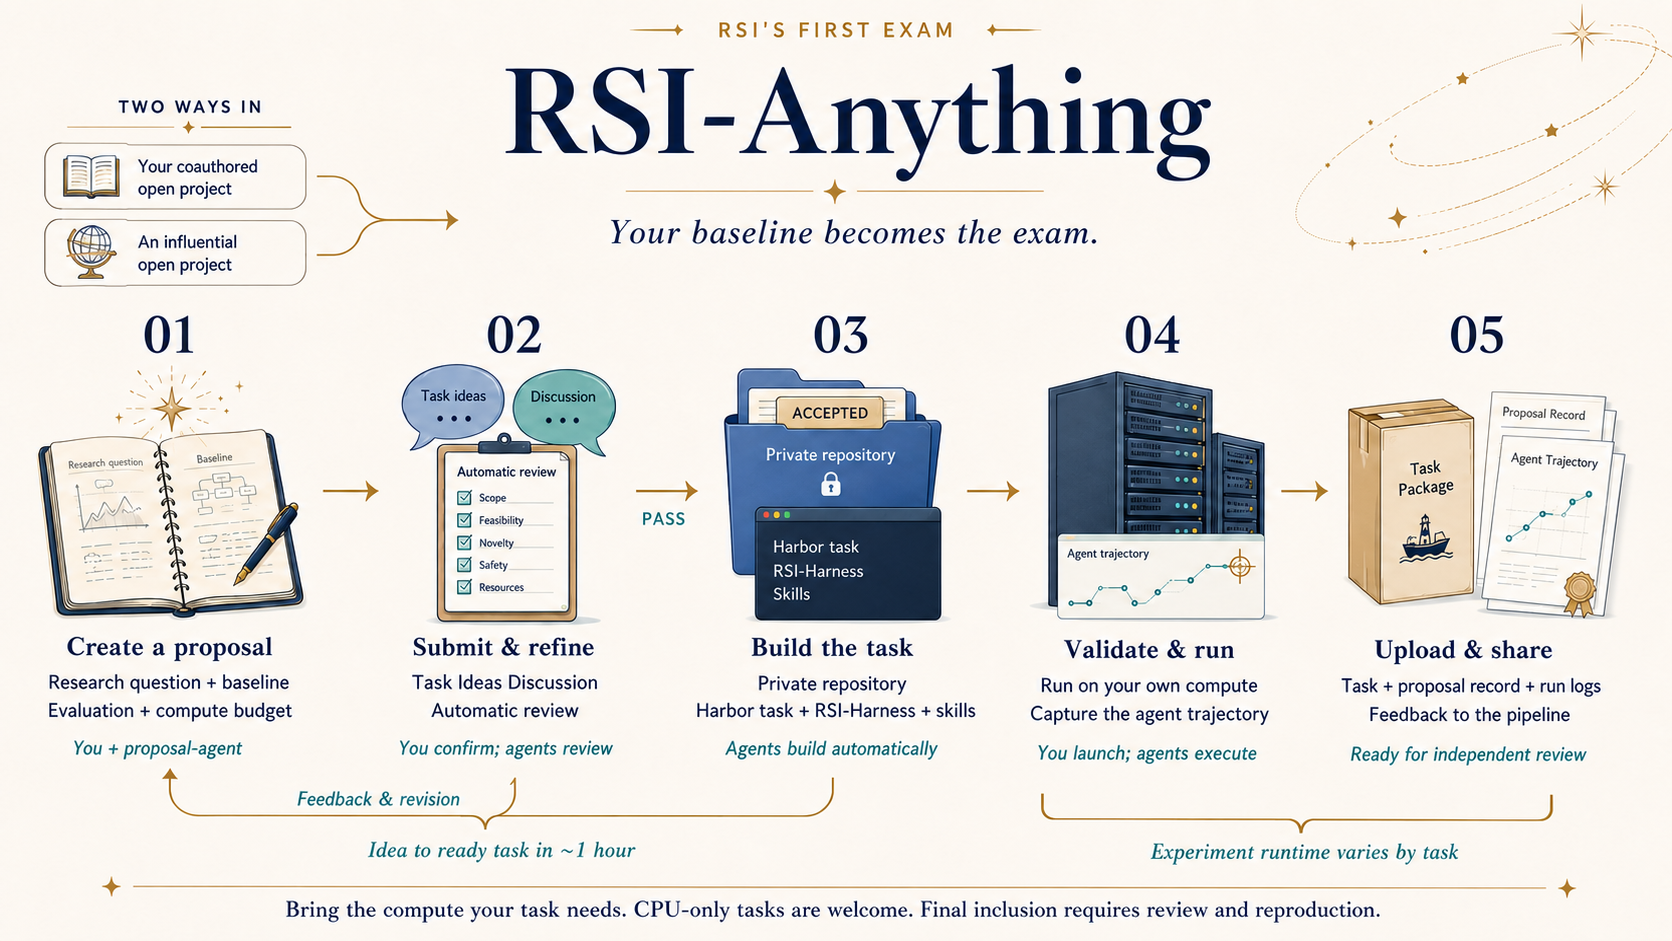
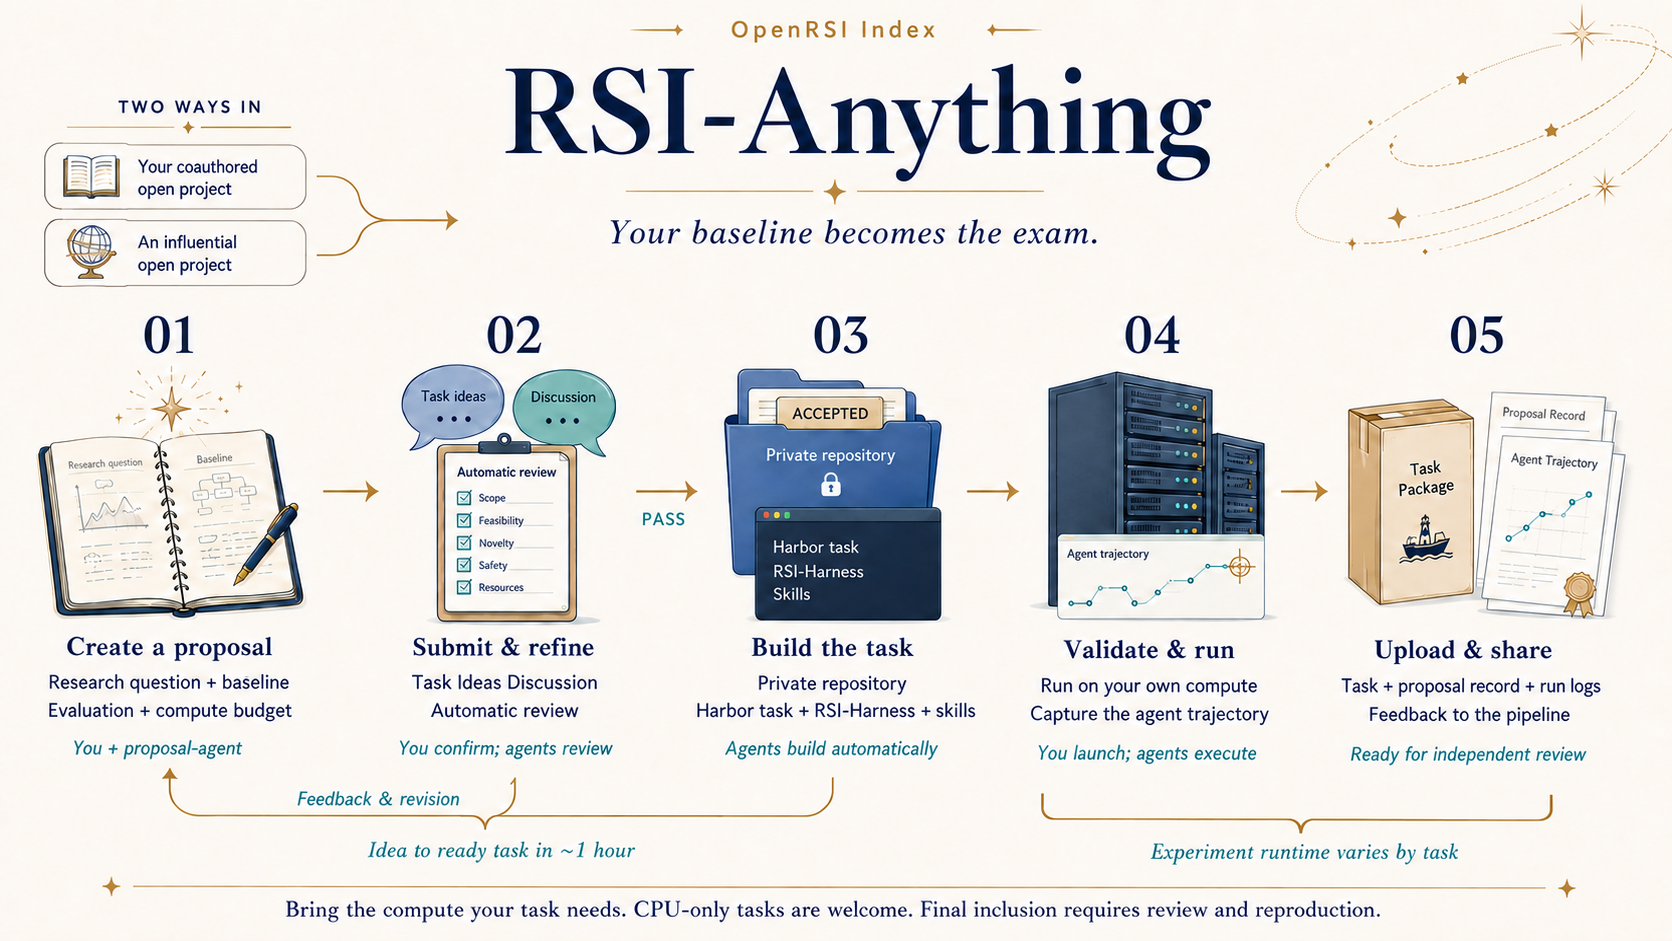
Replace remaining project display names with OpenRSI Index

diff --git a/README.md b/README.md
@@ -30,11 +30,11 @@ Open Codex or Claude Code (app or CLI), start a fresh session, and paste:
 Use the proposal-agent skill at .agents/skills/proposal-agent/SKILL.md in my local OpenRSI-Index repository. Locate the repository if needed, then follow the skill to complete setup and guide me step by step through creating and submitting an RSI proposal.
 ```
 
-## 💥 Why RSI's First Exam?
+## 💥 Why OpenRSI Index?
 
 We are witnessing the dawn of a new era: AI is entering a recursive self-improvement loop. The central question is whether this loop can move beyond the best-known human-designed method and reliably extend the scientific frontier. Answering it requires careful measurement, and building that measurement is the purpose of this project.
 
-[RSI's First Exam](https://rsi-first-exam.rsi-anything.workers.dev/) is an ongoing effort to evaluate whether AI agents can drive genuine recursive self-improvement and advance scientific discovery through real-world research at scales ranging from a single node to thousands of GPUs—not merely reproduce existing results, sweep parameters, or succeed on toy-scale tasks.
+[OpenRSI Index](https://rsi-first-exam.rsi-anything.workers.dev/) is an ongoing effort to evaluate whether AI agents can drive genuine recursive self-improvement and advance scientific discovery through real-world research at scales ranging from a single node to thousands of GPUs—not merely reproduce existing results, sweep parameters, or succeed on toy-scale tasks.
 
 ### Task taxonomy
 
@@ -60,10 +60,37 @@ We are actively developing this project and welcome [contributions](https://gith
 
 ### How an evaluation works: RSI-Harness
 
-[RSI-Harness](RSI-Harness/) powers RSI's First Exam for ultra-long-horizon RSI runs, natively supporting [Harbor-format tasks](rsi-tasks) from single-node local Docker to multi-node clusters.
+[RSI-Harness](RSI-Harness/) powers OpenRSI Index for ultra-long-horizon RSI runs, natively supporting [Harbor-format tasks](rsi-tasks) from single-node local Docker to multi-node clusters.
 
 ## 🤝 Contributors
 
+### Advisors (in alphabetical order)
 
+<table>
+  <tr>
+    <td width="25%" valign="top"><strong>Wenhu Chen</strong><br>University of Waterloo</td>
+    <td width="25%" valign="top"><strong>Yejin Choi</strong><br>Stanford University</td>
+    <td width="25%" valign="top"><strong>Jianfeng Gao</strong><br>Microsoft Research</td>
+    <td width="25%" valign="top"><strong>Hannaneh Hajishirzi</strong><br>University of Washington</td>
+  </tr>
+  <tr>
+    <td width="25%" valign="top"><strong>Pang Wei Koh</strong><br>University of Washington</td>
+    <td width="25%" valign="top"><strong>Ranjay Krishna</strong><br>University of Washington</td>
+    <td width="25%" valign="top"><strong>Karthik Narasimhan</strong><br>Princeton University</td>
+    <td width="25%" valign="top"><strong>Rameswar Panda</strong><br>MIT-IBM Watson AI Lab</td>
+  </tr>
+  <tr>
+    <td width="25%" valign="top"><strong>Radha Poovendran</strong><br>University of Washington</td>
+    <td width="25%" valign="top"><strong>Dawn Song</strong><br>UC Berkeley</td>
+    <td width="25%" valign="top"><strong>Yu Su</strong><br>The Ohio State University</td>
+    <td width="25%" valign="top"><strong>Huan Sun</strong><br>The Ohio State University</td>
+  </tr>
+  <tr>
+    <td width="25%" valign="top"><strong>Diyi Yang</strong><br>Stanford University</td>
+    <td width="25%" valign="top"><strong>Ming‑Hsuan Yang</strong><br>UC Merced</td>
+    <td width="25%" valign="top"><strong>Xiang Yue</strong><br>Independent Researcher</td>
+    <td width="25%" valign="top"><strong>Luke Zettlemoyer</strong><br>University of Washington</td>
+  </tr>
+</table>
 
 ## 🙏 Acknowledgements

diff --git a/RSI-Harness/README.md b/RSI-Harness/README.md
@@ -1,6 +1,6 @@
 # RSI Harness
 
-RSI Harness powers RSI's First Exam for ultra-long-horizon RSI runs, natively
+RSI Harness powers OpenRSI Index for ultra-long-horizon RSI runs, natively
 supporting [Harbor-format tasks](../rsi-tasks/) with or without GPUs on local
 Docker, and GPU tasks on multi-node clusters.
 
